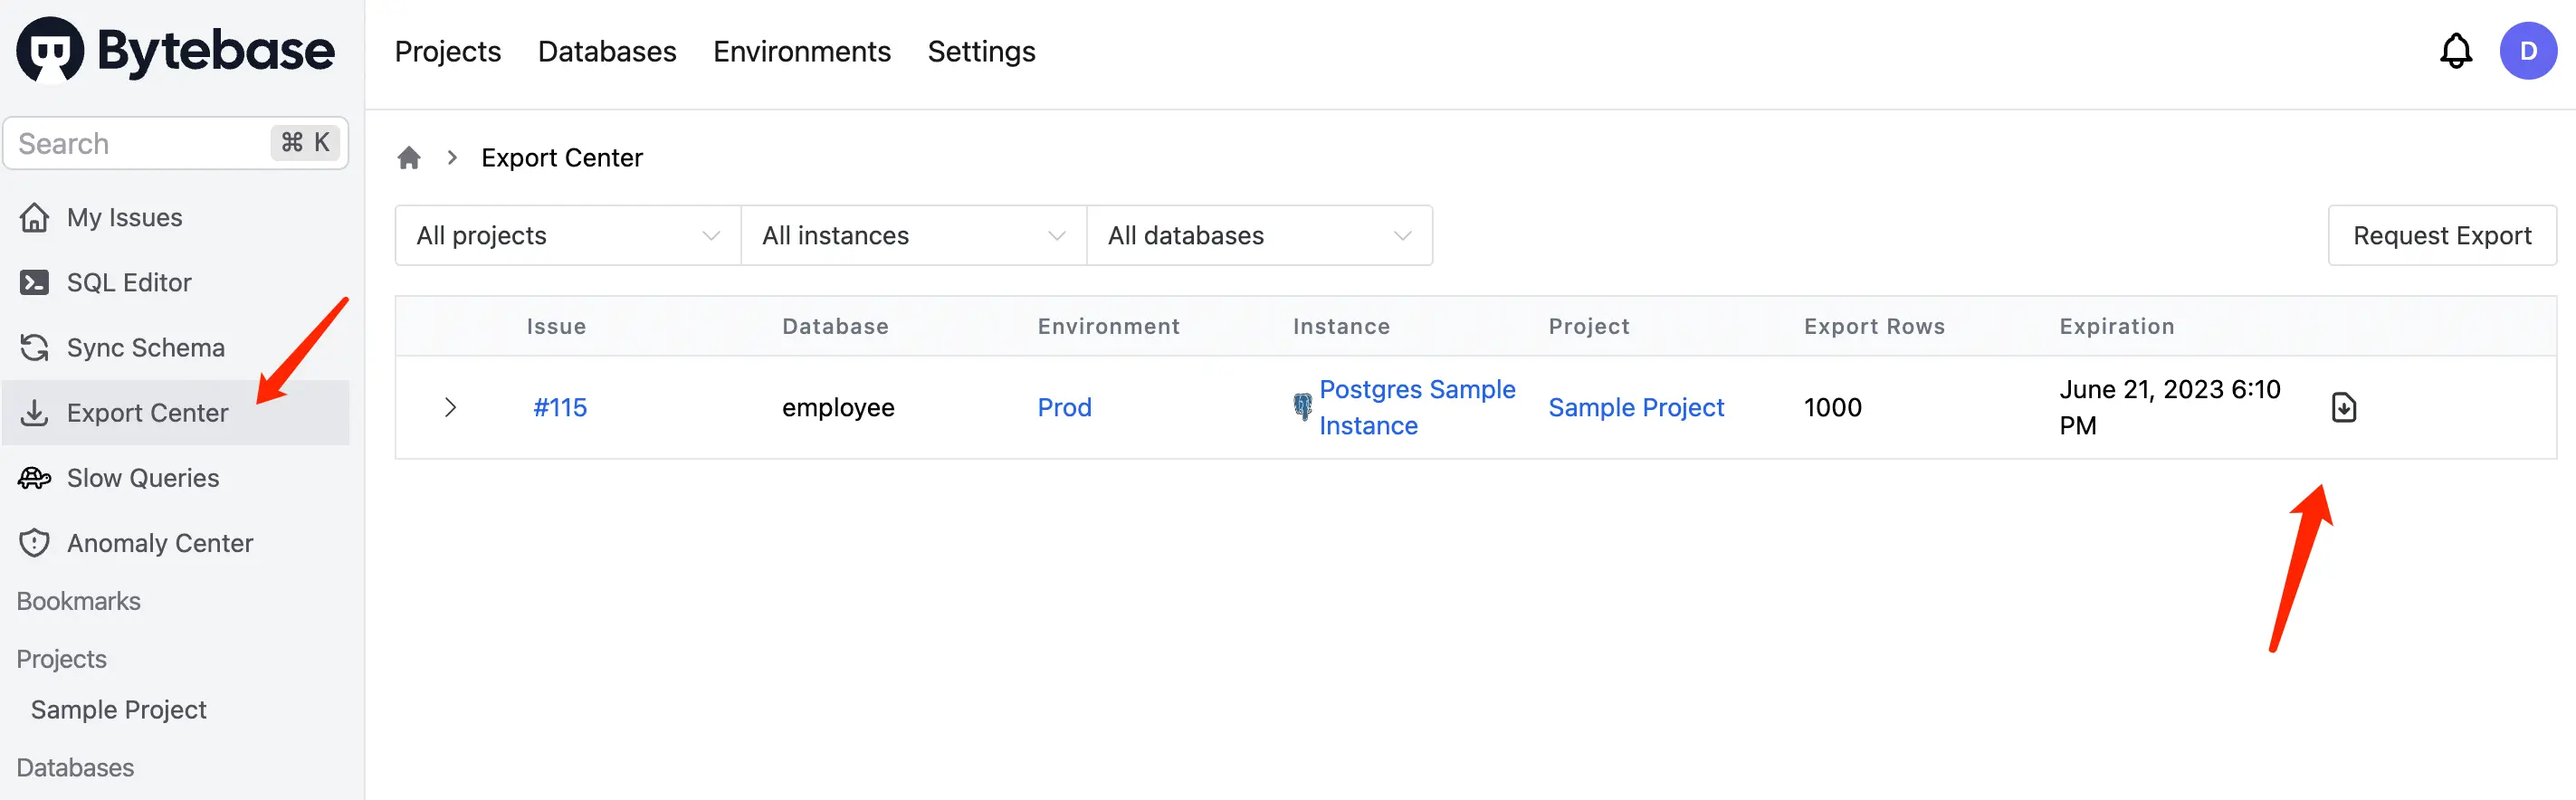
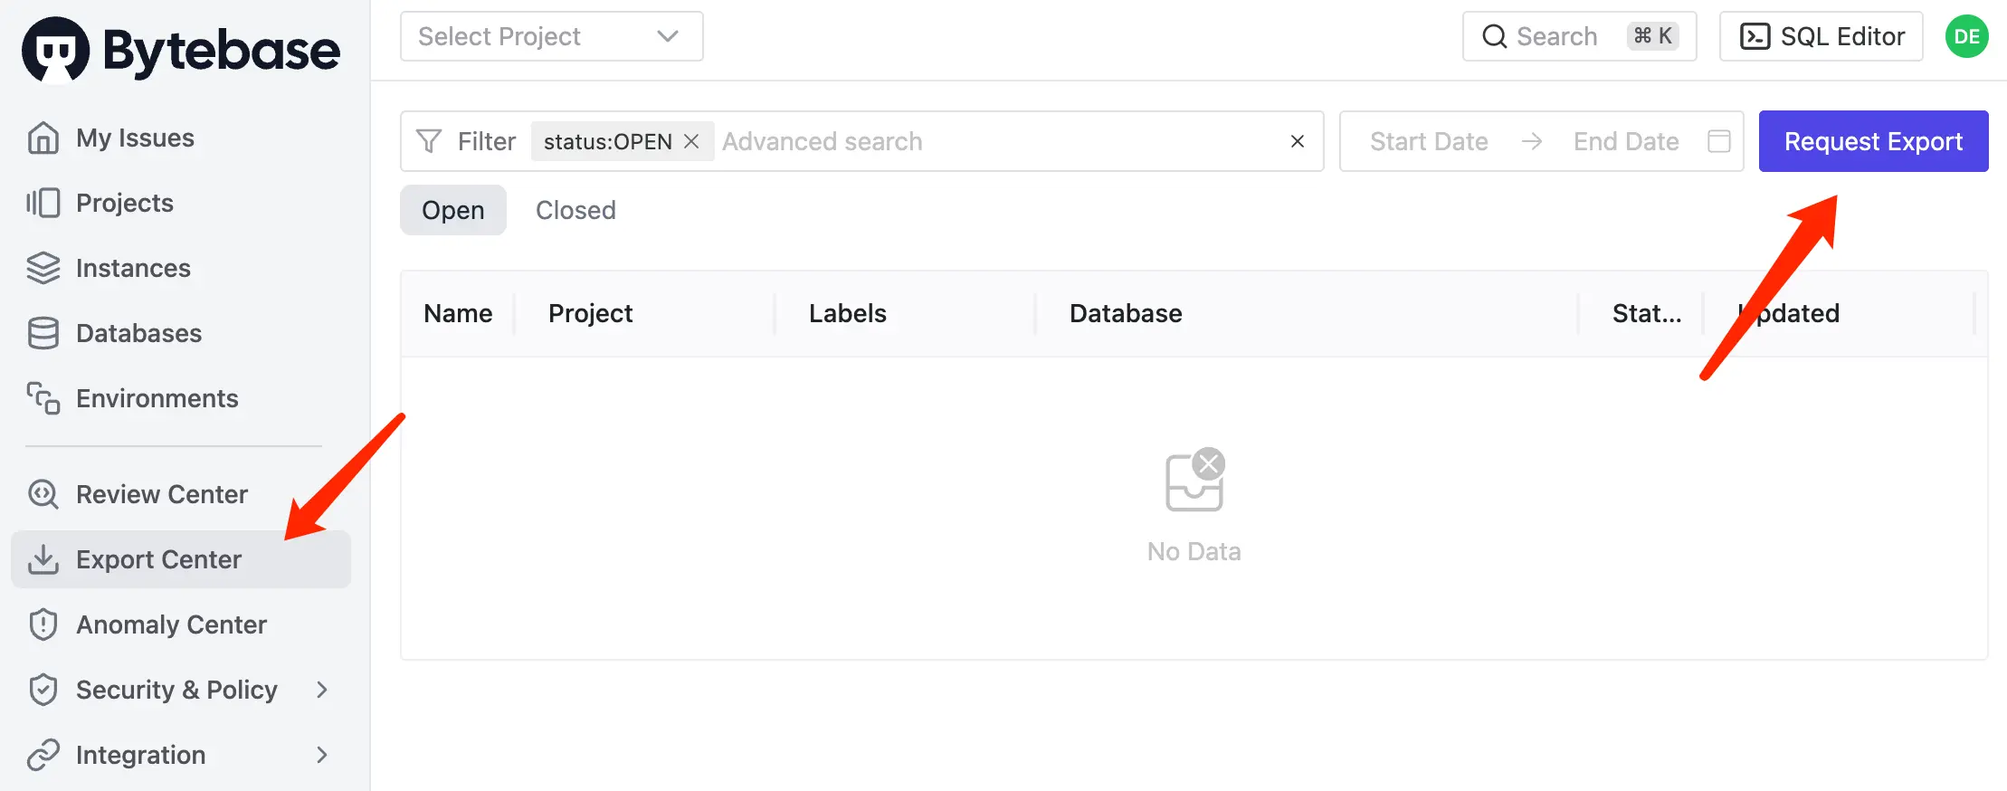
docs: update data query and export doc (#346)
* docs: update data query and export

* Update content/docs/security/data-export.md

---------

diff --git a/content/docs/security/data-export.md b/content/docs/security/data-export.md
@@ -2,36 +2,53 @@
 title: Data Export Approval Flow
 ---
 
-**Project Owner** can always export data directly from the result panel in SQL Editor. However, for **Project Exporter**, the behavior is different depending on the plan.
-   ![bb-request-export-owner](/content/docs/security/data-query-and-export/bb-request-export-owner.webp)
-## Enterprise Plan
+There are two ways to export data:
 
-You need to have **Project Querier** role first, and then click **Request Export** either from the result panel in SQL Editor or from project page.
-   ![bb-request-export-querier-sql-editor](/content/docs/security/data-query-and-export/bb-request-export-querier-sql-editor.webp)
+- Obtain the **Project Exporter** role to export frequently.
+- Request a one-time export in the **Export Center**.
 
-   ![bb-homepage-request-export](/content/docs/security/data-query-and-export/bb-homepage-request-export.webp)
+## Project Exporter Role
 
-### Request Export
+**Project Owner** can always export data directly from the result panel in SQL Editor. You, as a developer, in order to view the result and export in SQL Editor, must have both [**Project Querier**](/docs/security/data-query) (to query and view the result) and **Project Exporter** roles.
+   ![bb-sql-editor-export](/content/docs/security/data-query-and-export/bb-sql-editor-export.webp)
 
-1. After clicking **Request Export**, fill out the relevant form. There're two methods: `SQL` and `Databases`.
-   ![bb-request-export-sql-db](/content/docs/security/data-query-and-export/bb-request-export-sql-db.webp)
+**Project Owner** can assign the **Project Exporter** role to users on **Manage > Members** in the project.
 
-2. Click **Create** to submit the request and wait for approval.
-   ![bb-request-export-waiting](/content/docs/security/data-query-and-export/bb-request-export-waiting.webp)
+   ![bb-project-members-grant](/content/docs/security/data-query-and-export/bb-project-members-grant.webp)
 
-### Download in Export Center
-Once the request is approved, you can go to the **Export Center** to download the exported file.
+For **Enterprise Plan**, you can also request **Project Querier** role on **Database > Databases** in the project.
+
+   ![bb-project-apply-exporter](/content/docs/security/data-query-and-export/bb-project-apply-exporter.webp)
+
+   ![bb-project-request-export-issue](/content/docs/security/data-query-and-export/bb-project-request-export-issue.webp)
+## One-time Export Request
+
+Sometimes, you only need to export data once. In this case, you can request a one-time export in the **Export Center**.
+
+1. There are two entries: one is **Export Center** within a project and the other is in the global **Export Center**.
+
+   ![bb-project-export-center](/content/docs/security/data-query-and-export/bb-project-export-center.webp)
 
    ![bb-export-center](/content/docs/security/data-query-and-export/bb-export-center.webp)
 
-   The export action only supports one-time export. If you need to export again, you need to submit a new request.
+1. After clicking **Request Export**, select the database and click **Next**.
 
-## Free or Pro Plan
-- **Project Querier** can't download data nor request export. The only way to export data is to ask **Project Owner** to assign **Project Exporter** role to you.
+   ![bb-export-data-select-db](/content/docs/security/data-query-and-export/bb-export-data-select-db.webp)
 
-   ![bb-export-sql-editor-no-perm](/content/docs/security/data-query-and-export/bb-export-sql-editor-no-perm.webp)
+1. An issue preview will be displayed. Fill in the SQL to query the data, and click **Run checks** to auto-run SQL review. Select the **Format**, enable **Encrypt** if needed and click **Create**.
 
-- **Project Exporter** can export data directly from the result panel in SQL Editor. You need to have **Project Querier** role first to access data and the result panel.
-### Add Exporter Role Manually
+   ![bb-1-export-preview](/content/docs/security/data-query-and-export/bb-1-export-preview.webp)
 
-As a **Project Owner**, you can go to the project, and click **Members** tab. Find the user, click `+`  and choose **Project Exporter**. 
+1. The issue will be created. By configuring [custom approval](/docs/administration/custom-approval/), it will match the corresponding approvers.
+
+   ![bb-1-export-created](/content/docs/security/data-query-and-export/bb-1-export-created.webp)
+
+1. After the corresponding approvers approve the issue, you can click **Export** to download the exported file.
+
+   ![bb-1-export-export](/content/docs/security/data-query-and-export/bb-1-export-export.webp)
+
+1. The exported issues will be displayed in the **Export Center**.
+
+   ![bb-1-export-project-list-export](/content/docs/security/data-query-and-export/bb-1-export-project-list-export.webp)
+
+   ![bb-1-export-list-export](/content/docs/security/data-query-and-export/bb-1-export-list-export.webp)

diff --git a/content/docs/security/data-query.md b/content/docs/security/data-query.md
@@ -3,38 +3,33 @@ title: Data Query Approval Flow
 ---
 
 **Project Owners** can always manually add the role of **Project Querier** to control data query permissions. In **Enterprise Plan**, users can apply for **Project Querier** roles by submitting a request grant issue.
-## Enterprise Plan
 
-### Apply for Querier Role
+## Assign Project Querier Role
 
-Users can apply for **Project Querier** role by submitting a request query issue.
+For all plans, **Project Owners** can manually assign the **Project Querier** role to users or groups.
 
-1. Go to the home page or project page, and click **Request Query**.
+1. As a **Project Owner**, you can go to the project, click **Manage > Members** and then click `Grant Access`.
+   ![bb-project-members-grant](/content/docs/security/data-query-and-export/bb-project-members-grant.webp)
+1. Select the user or group, assign the role of **Project Querier**, choose the databases, exipration and click **Confirm**.
+   ![bb-project-members-querier](/content/docs/security/data-query-and-export/bb-project-members-querier.webp)
 
-   ![bb-home-request-query](/content/docs/security/data-query-and-export/bb-home-request-query.webp)
+## Request Project Querier Role
 
-2. Fill out the relevant form.
+For **Enterprise plan**, you, as a developer, can request **Project Querier** role by submitting a request query issue.
 
-   ![bb-request-query-all](/content/docs/security/data-query-and-export/bb-request-query-all.webp)
+1. Go to the project page, and click **Request Query Role**.
 
-3. Click **Create** to submit the request.
-   ![bb-issue-request-query-all](/content/docs/security/data-query-and-export/bb-issue-request-query-all.webp)
+   ![bb-project-apply-querier.png](/content/docs/security/data-query-and-export/bb-project-apply-querier.webp)
 
-After the request is approved, you can query the data in SQL Editor from the specified databases before the requested expiration time.
+1. Fill out the form, you can either choose all databases or specific databases or tables.
 
-### Apply for Querier Role at Table Level
+   ![bb-project-request-querier-role-all](/content/docs/security/data-query-and-export/bb-project-request-querier-role-all.webp)
 
-Users can apply for **Project Querier** role for specific tables.
+   ![bb-project-request-querier-role-table](/content/docs/security/data-query-and-export/bb-project-request-querier-role-table.webp)
 
-1. In the request form, choose `Manual Select` for **Database**.
+1. Click **OK** and the issue will be created. By configuring [custom approval](/docs/administration/custom-approval/), it will match the corresponding approvers.
+   ![bb-issue-querier-role](/content/docs/security/data-query-and-export/bb-issue-querier-role.webp)
 
-2. Select the databases and click **OK**.
-   ![bb-request-query-tables](/content/docs/security/data-query-and-export/bb-request-query-tables.webp)
+1. After the request is approved, you can query the data in SQL Editor from the specified databases before the requested expiration time.
+   ![bb-issue-querier-done](/content/docs/security/data-query-and-export/bb-issue-querier-done.webp)
 
-After the request is approved, you can query the data in SQL Editor from the specified tables before the requested expiration time.
-
-## All Plans
-### Add Querier Role Manually
-
-As a **Project Owner**, you can go to the project, click **Members** tab, find the user, click `+`  and choose **Project Querier**.
-![bb-project-members-add-querier](/content/docs/security/data-query-and-export/bb-project-members-add-querier.webp)
